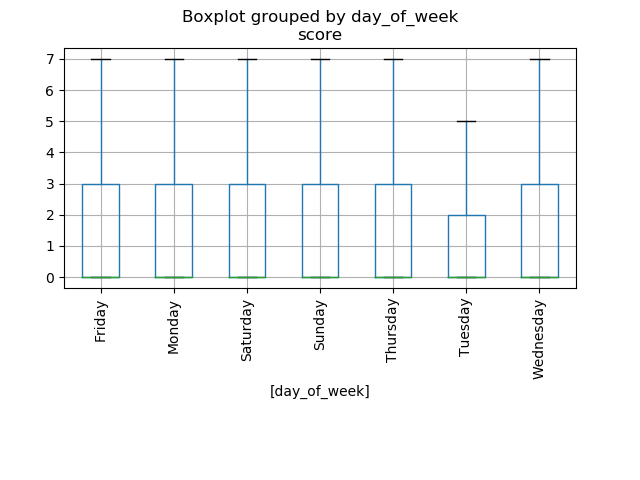
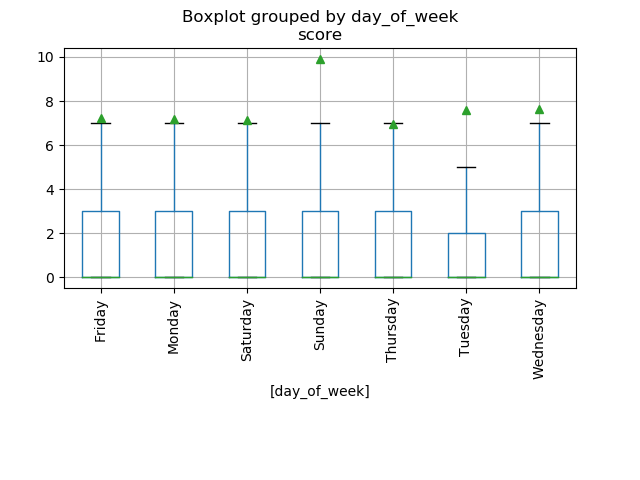
new figures

diff --git a/data_exploration.py b/data_exploration.py
@@ -43,39 +43,39 @@ df_train_trans_pd = df_train_trans.toPandas()
 """ Scores grouped by author/ domain"""
 import matplotlib.pyplot as plt
 plt.figure(figsize=[30,40])
-train_set_pd[['author', 'score']].sort_values(by='author')[0:300].boxplot(by='author', showfliers=False) 
+train_set_pd[['author', 'score']].sort_values(by='author')[0:300].boxplot(by='author', showfliers=False, showmeans=True) 
 plt.xticks(rotation=90) 
 plt.gcf().subplots_adjust(bottom=0.3)
 plt.savefig('./figures/boxplot_score_groupedby_author')
 
 plt.figure(figsize=[40, 80]) 
-train_set_pd[['domain', 'score']].sort_values(by='domain')[0:150].boxplot(by='domain', showfliers=False) 
+train_set_pd[['domain', 'score']].sort_values(by='domain')[0:100].boxplot(by='domain', showfliers=False, showmeans=True) 
 plt.gcf().subplots_adjust(bottom=0.4) 
 plt.xticks(rotation=90) 
 plt.xlabel('domains', fontsize=5)
 plt.savefig('./figures/boxplot_score_groupedby_domain') 
 
 plt.figure(figsize=[40, 40]) 
-train_set_pd[['subreddit', 'score']].sort_values(by='subreddit')[0:7000].boxplot(by='subreddit', showfliers=False) 
+train_set_pd[['subreddit', 'score']].sort_values(by='subreddit')[0:7000].boxplot(by='subreddit', showfliers=False, showmeans=True) 
 plt.gcf().subplots_adjust(bottom=0.4) 
 plt.xlabel('subreddit', fontsize=9)
 plt.xticks(rotation=90) 
 plt.savefig('./figures/boxplot_score_groupedby_subreddit') 
 
 plt.figure(figsize=[40, 40]) 
-train_set_pd[['subreddit_type', 'score']].sort_values(by='subreddit_type').boxplot(by='subreddit_type', showfliers=False) 
+train_set_pd[['subreddit_type', 'score']].sort_values(by='subreddit_type').boxplot(by='subreddit_type', showfliers=False, showmeans=True) 
 plt.gcf().subplots_adjust(bottom=0.4) 
 plt.xticks(rotation=90) 
 plt.savefig('./figures/boxplot_score_groupedby_subreddit_type') 
 
 plt.figure(figsize=[40, 40]) 
-df_train_trans_pd[['day_of_week', 'score']].boxplot(by='day_of_week', showfliers=False) 
+df_train_trans_pd[['day_of_week', 'score']].boxplot(by='day_of_week', showfliers=False, showmeans=True) 
 plt.gcf().subplots_adjust(bottom=0.4) 
 plt.xticks(rotation=90) 
 plt.savefig('./figures/boxplot_score_groupedby_dayofweek') 
 
 plt.figure(figsize=[40, 40]) 
-df_train_trans_pd[['hour', 'score']].boxplot(by='hour', showfliers=False) 
+df_train_trans_pd[['hour', 'score']].boxplot(by='hour', showfliers=False, showmeans=True) 
 plt.gcf().subplots_adjust(bottom=0.4) 
 plt.xticks(rotation=90) 
 plt.xlabel('hour', fontsize=8)
